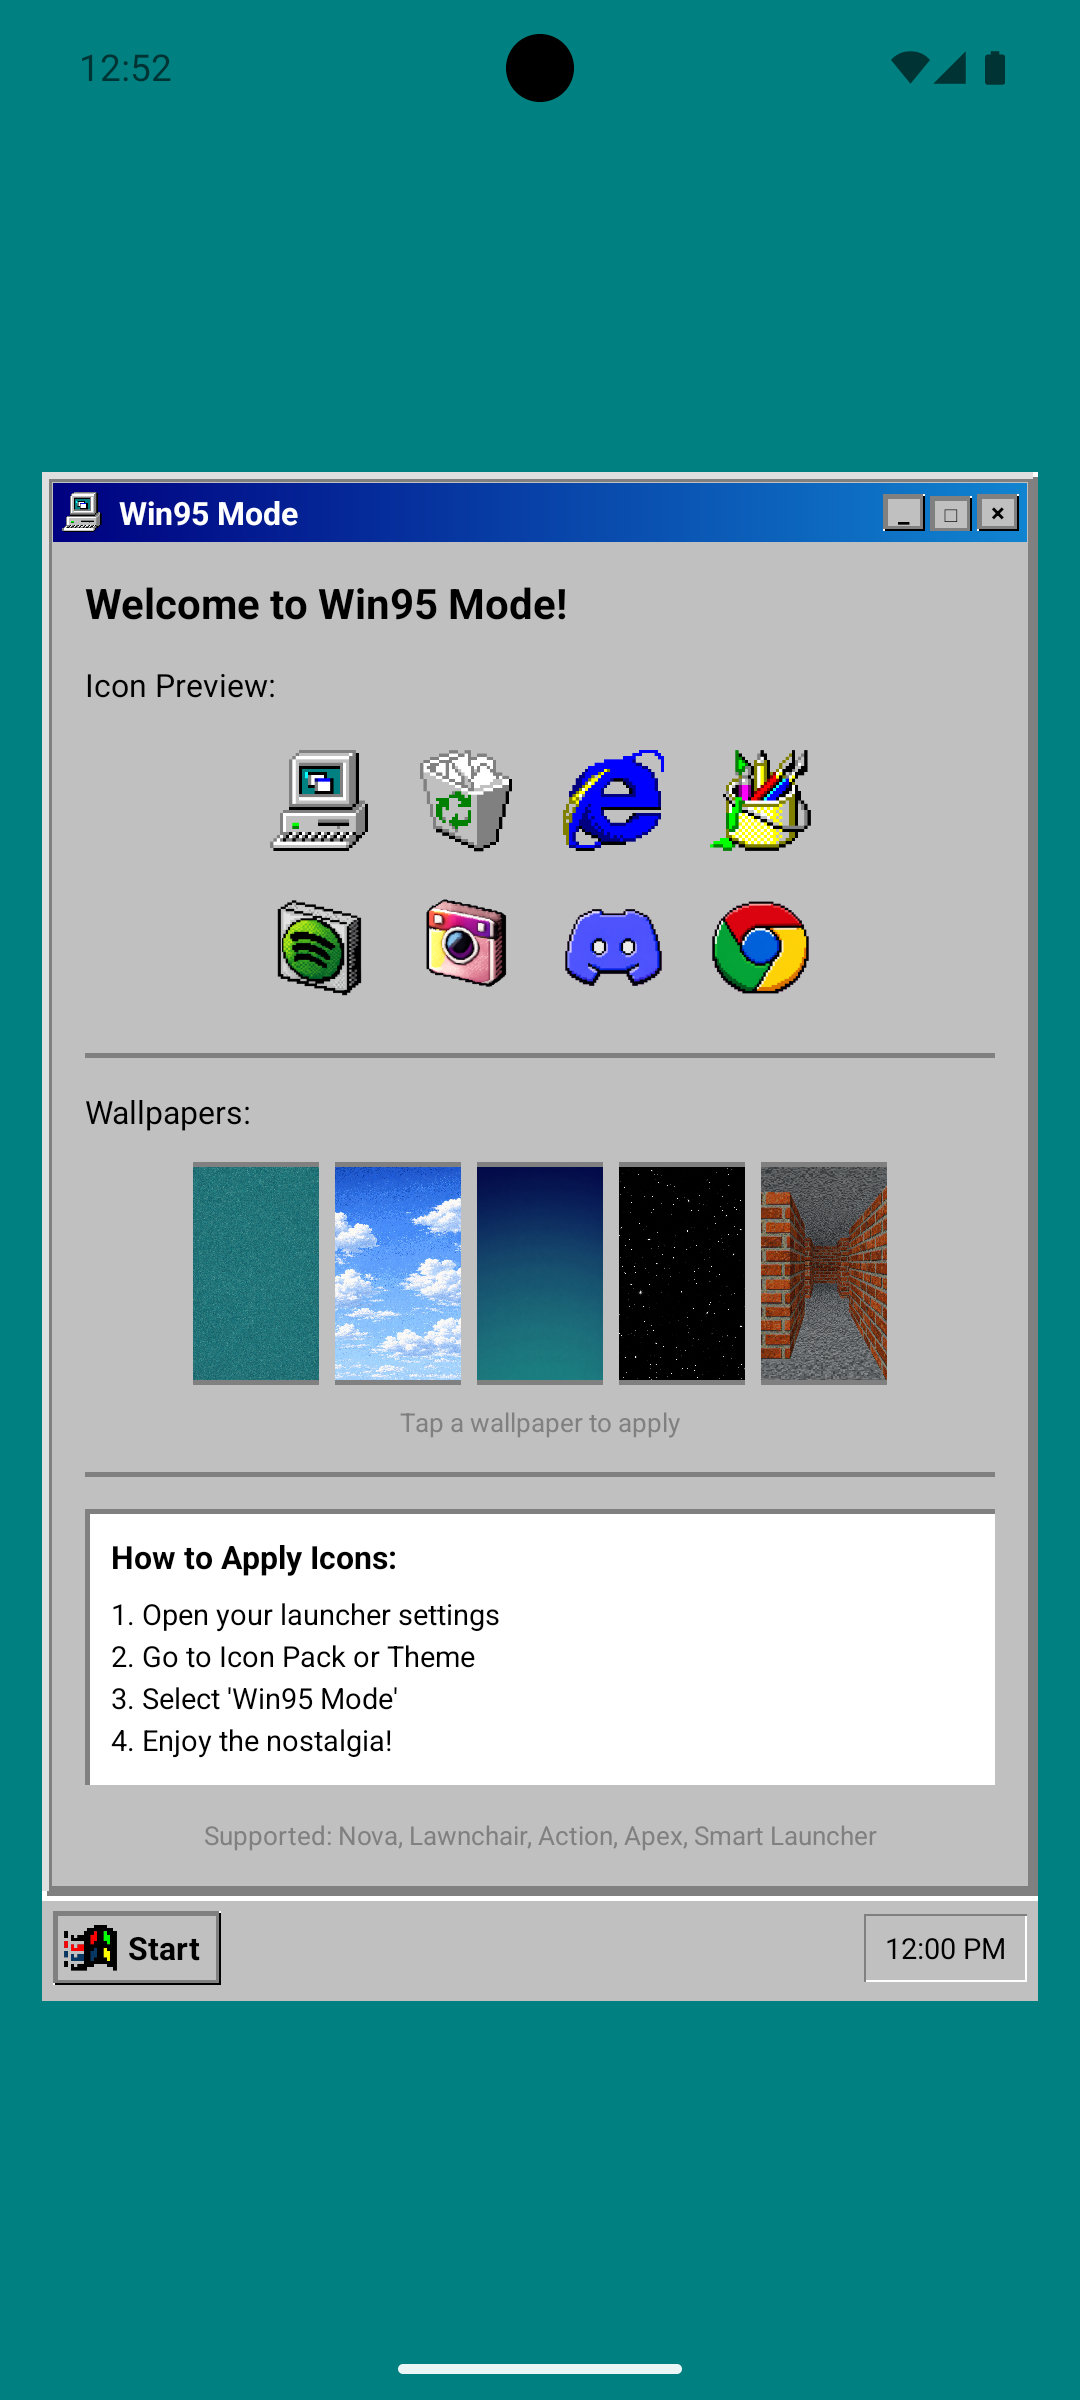
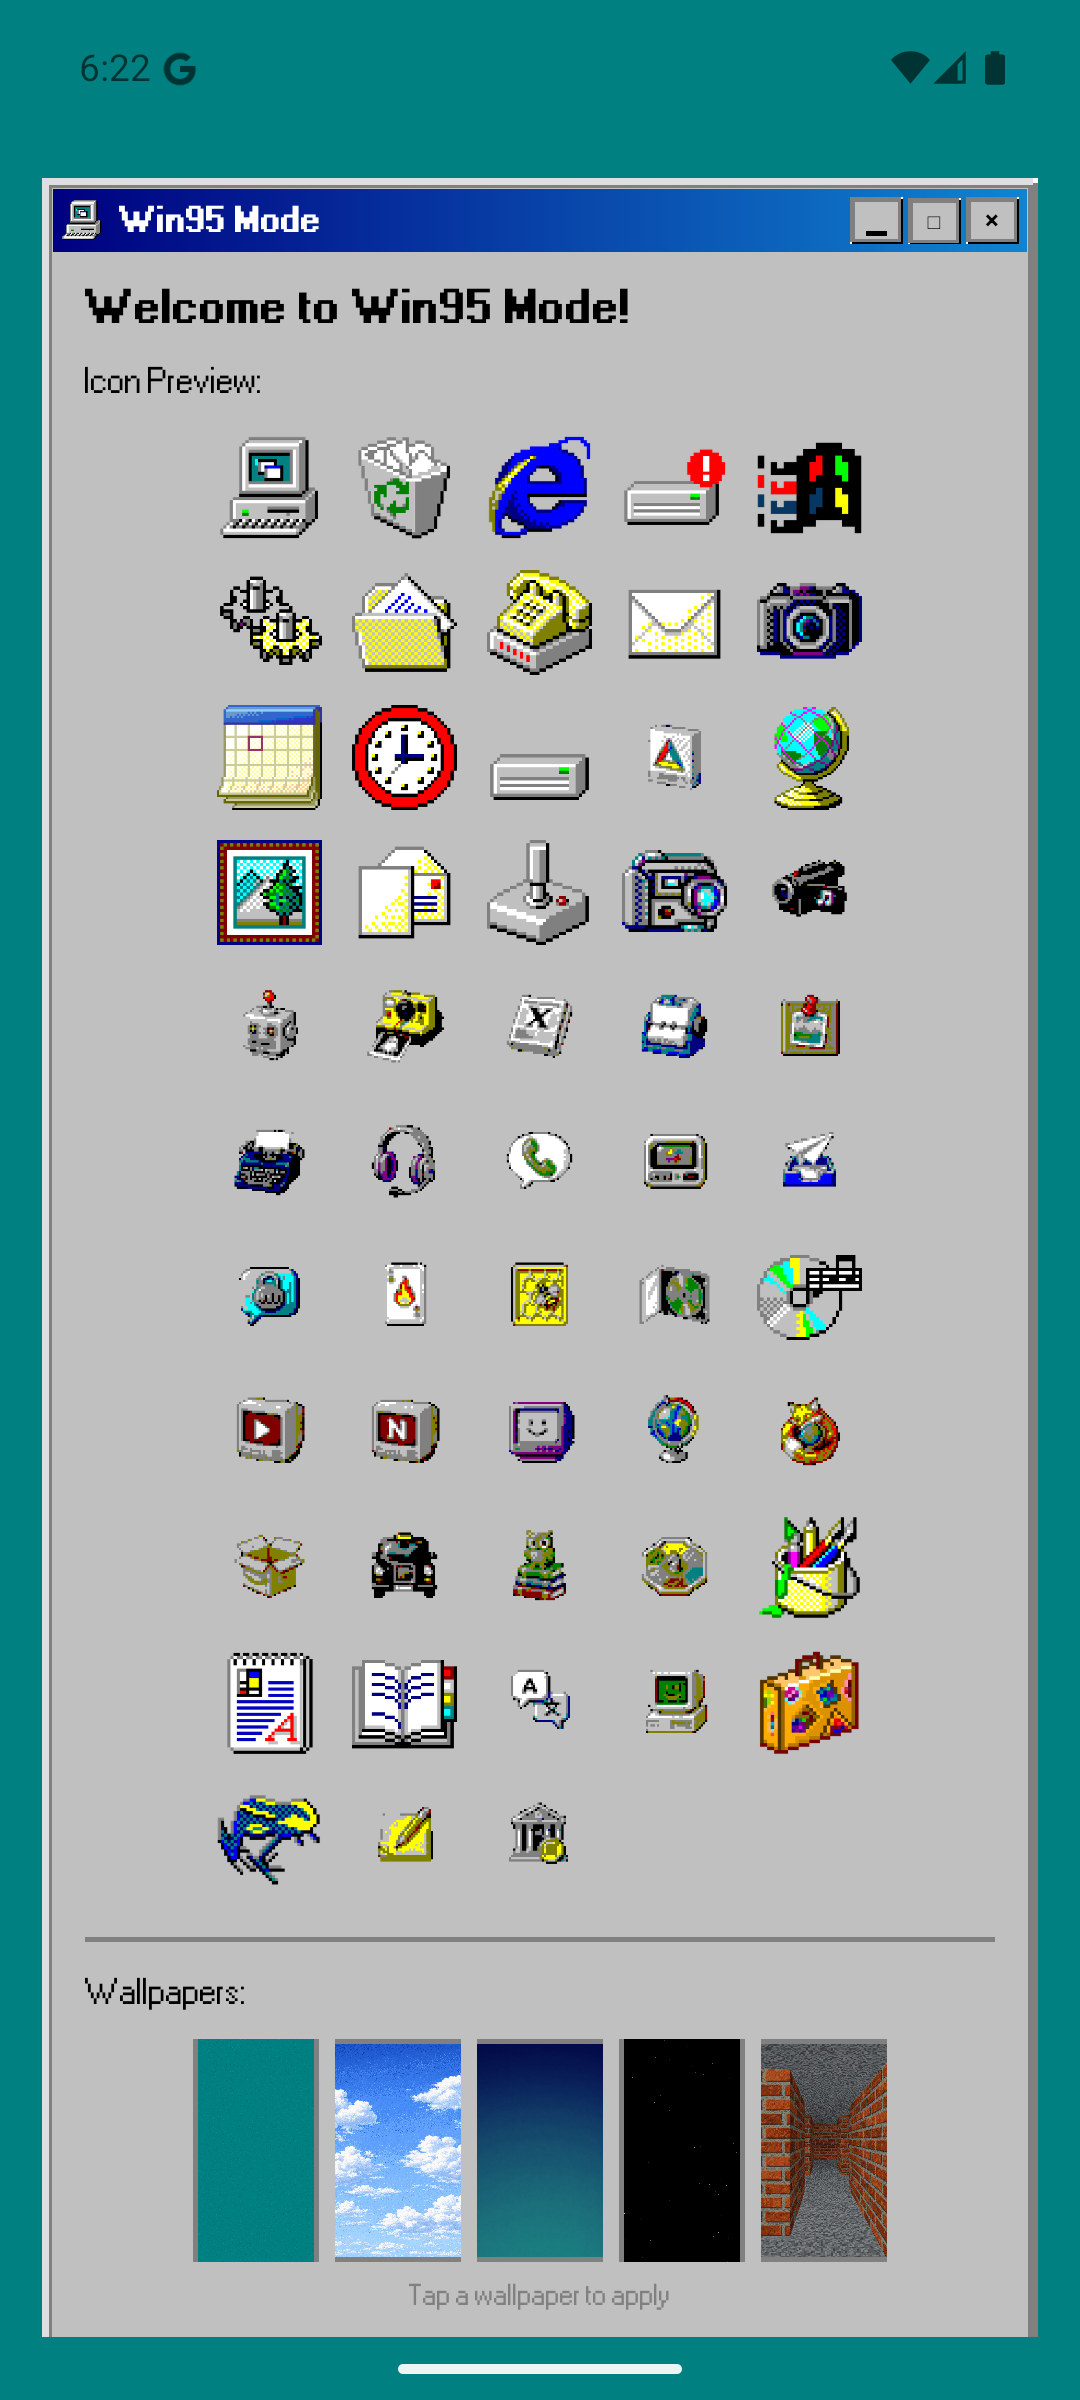
docs: update screenshots and README for v2

diff --git a/README.md b/README.md
@@ -9,13 +9,22 @@ A nostalgic Windows 95-style icon pack and wallpaper manager for Android. Transf
 ## Screenshots
 
 <p align="center">
-  <img src="screenshots/app_view.png" width="300" alt="App View" />
-  <img src="screenshots/home_view.png" width="300" alt="Home Screen" />
+  <img src="screenshots/home_view.png" width="260" alt="Home Screen" />
+  <img src="screenshots/app_view.png" width="260" alt="App View" />
+  <img src="screenshots/wallpaper_dialog.png" width="260" alt="Wallpaper Dialog" />
 </p>
+
+## What's New in v2
+
+- Complete icon overhaul: every icon is now a real Win95-style object — a CRT television for Netflix, a cardboard box for Amazon, a camcorder for TikTok — instead of a pixelated modern logo
+- New icons and mappings: Telegram, Signal, Twitch, Firefox, Google Photos, Play Games, Clock and more
+- Fallback plaque for unthemed apps
+- MS Sans Serif pixel font and working window controls in the app
+- Wallpapers at phone resolution, applicable to home and lock screen
 
 ## Features
 
-- 45+ app icons styled like classic Windows 95
+- 50+ app icons styled like classic Windows 95
 - Apps without a themed icon get a beveled Win95 plaque, so the whole home screen stays coherent
 - Authentic Win95 UI elements (beveled borders, 3D buttons, MS Sans Serif pixel font)
 - Classic wallpapers (teal, clouds, setup, stars, matrix) for home and lock screen
